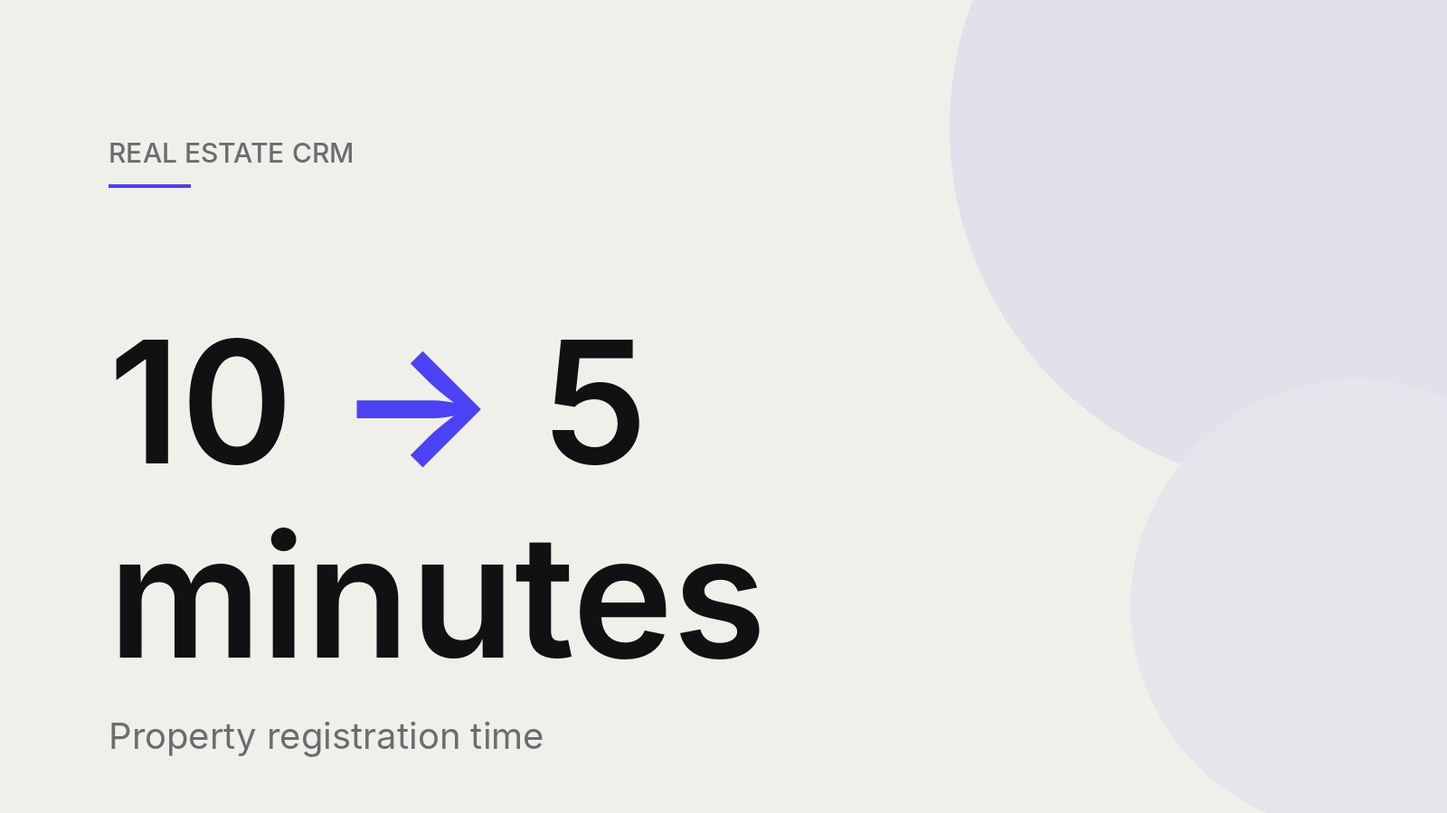
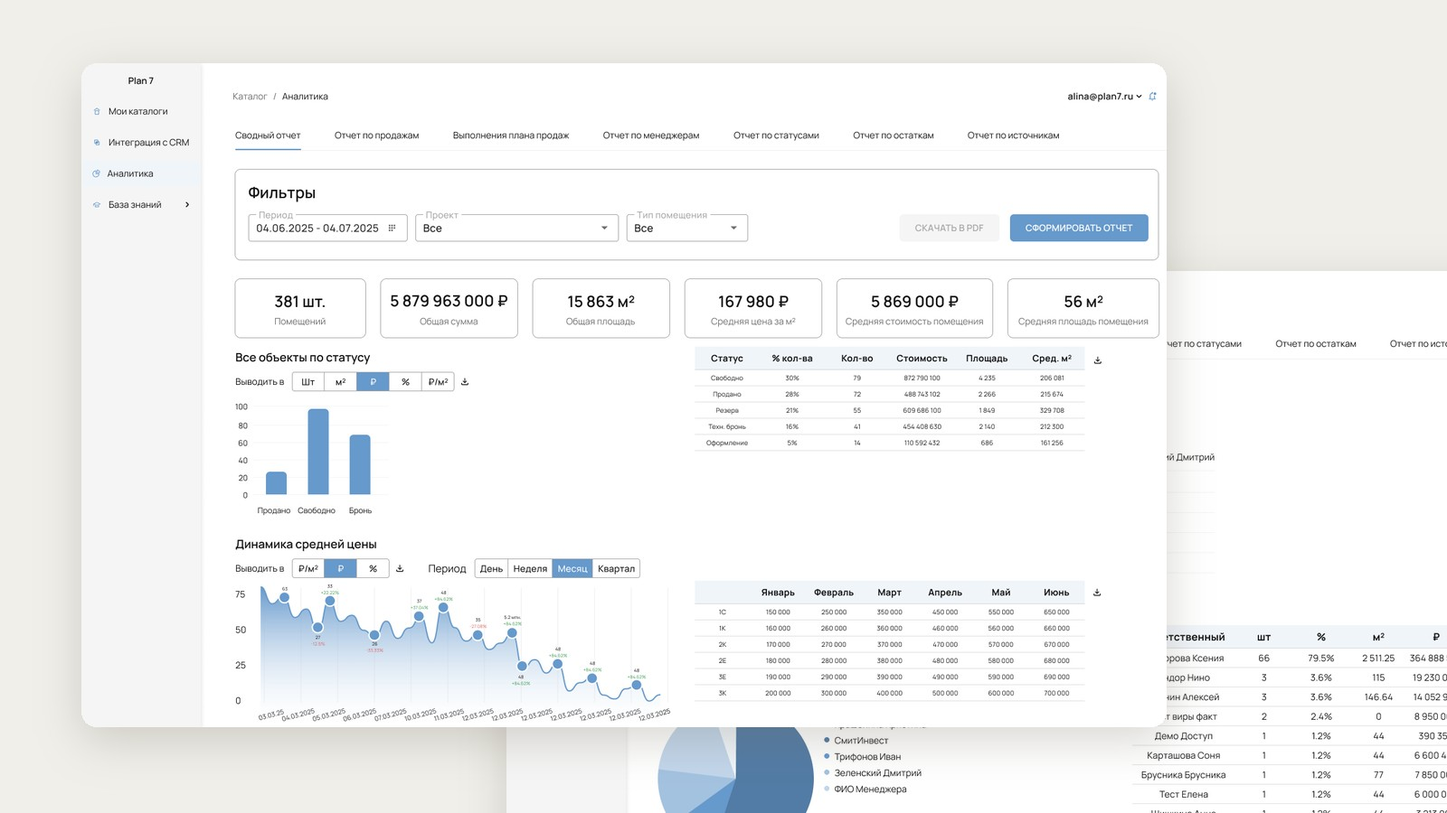
Add files via upload

diff --git a/case-mobile.html b/case-mobile.html
@@ -1,0 +1,139 @@
+<!DOCTYPE html>
+<html lang="ru">
+<head>
+<meta charset="UTF-8">
+<meta name="viewport" content="width=device-width, initial-scale=1.0">
+<title>Мобильные концепты · Портфолио</title>
+<link rel="preconnect" href="https://fonts.googleapis.com">
+<link rel="preconnect" href="https://fonts.gstatic.com" crossorigin>
+<link href="https://fonts.googleapis.com/css2?family=Inter:wght@400;500;600;700&display=swap" rel="stylesheet">
+<link rel="stylesheet" href="styles.css">
+</head>
+<body>
+
+<div class="wrap">
+  <div class="topbar">
+    <a class="sig" href="index.html" data-i18n="sig_name">Дима Мельников</a>
+    <div class="topbar-right">
+      <nav>
+        <a href="index.html#projects" data-i18n="nav_projects">Проекты</a>
+        <a href="index.html#about" data-i18n="nav_about">Про меня</a>
+        <a href="#" data-i18n="nav_resume" data-i18n-href="resume_url">Резюме ↗</a>
+      </nav>
+      <div class="lang-switch">
+        <button data-lang="ru" class="active" aria-pressed="true">RU</button>
+        <button data-lang="en" aria-pressed="false">EN</button>
+      </div>
+    </div>
+  </div>
+</div>
+
+<section class="case-hero">
+  <div class="wrap-wide">
+    <a class="back-link" href="index.html" data-i18n="back_link">← Все проекты</a>
+    <div class="case-meta"><span class="tag" data-i18n="tag1">Концепты</span><span class="tag" data-i18n="tag2">Mobile · iOS</span></div>
+    <h1 data-i18n="case_h1">Мобильные концепты: тренировки с наградами и поиск подработки</h1>
+    <p class="role-line" data-i18n="role_line"><b>Роль:</b> дизайн флоу и интерфейсов.</p>
+    <p class="role-line" data-i18n="team_line"><b>Формат:</b> два концепта мобильных приложений, без разработки.</p>
+  </div>
+</section>
+
+<section class="case-body">
+  <div class="wrap-wide">
+    <div class="cover" style="--cover: url('cover-mobile.jpg')"></div>
+
+    <h2 data-i18n="h2_memfit">Memfit: тренировки с наградами</h2>
+
+    <p data-i18n="m_intro">Memfit — концепт приложения для тренировок, где за&nbsp;активность пользователь получает memcoins. Главный экран собирает всё нужное для&nbsp;старта: награду, кнопку тренировки, статистику недели и&nbsp;обучающее видео.</p>
+
+    <p data-i18n="m_p1">Профиль подсказывает, что&nbsp;ещё заполнить: предпочтения по&nbsp;еде и&nbsp;подключение TON-кошелька. Рядом прогресс достижений в&nbsp;процентах, баланс memcoins и&nbsp;раздел с&nbsp;новостями и&nbsp;статьями.</p>
+
+    <p data-i18n="m_p2">Перед тренировкой на&nbsp;карте идёт обратный отсчёт 3, 2, 1, GO. Во&nbsp;время бега остаются крупные время, дистанция, темп и&nbsp;пульс и&nbsp;две кнопки, Resume и&nbsp;Finish.</p>
+
+    <div class="phone-grid cols-5">
+      <figure class="phone"><img src="memfit-1.jpg" alt="" loading="lazy" width="750" height="1624"><figcaption class="mockup-caption" data-i18n="mf1">Главный экран: награда, старт тренировки и статистика недели.</figcaption></figure>
+      <figure class="phone"><img src="memfit-2.jpg" alt="" loading="lazy" width="750" height="1624"><figcaption class="mockup-caption" data-i18n="mf2">Профиль: заполнение данных, достижения и баланс memcoins.</figcaption></figure>
+      <figure class="phone"><img src="memfit-3.jpg" alt="" loading="lazy" width="750" height="1624"><figcaption class="mockup-caption" data-i18n="mf3">Обратный отсчёт перед тренировкой.</figcaption></figure>
+      <figure class="phone"><img src="memfit-4.jpg" alt="" loading="lazy" width="750" height="1624"><figcaption class="mockup-caption" data-i18n="mf4">Старт тренировки.</figcaption></figure>
+      <figure class="phone"><img src="memfit-5.jpg" alt="" loading="lazy" width="750" height="1624"><figcaption class="mockup-caption" data-i18n="mf5">Показатели во время тренировки на карте.</figcaption></figure>
+    </div>
+
+    <h2 data-i18n="h2_tempi">TEMPi: регистрация в приложении для поиска подработки</h2>
+
+    <p data-i18n="intro_p">TEMPi — концепт сервиса, где исполнители находят подработку со&nbsp;сменным графиком рядом с&nbsp;домом, а&nbsp;заказчики — людей на&nbsp;смену. Здесь собран флоу регистрации исполнителя: от&nbsp;первого экрана до&nbsp;списка профессий.</p>
+
+    <p data-i18n="what_p1">Собрал флоу из&nbsp;восьми экранов и&nbsp;состояний. Вход объединяет почту и&nbsp;телефон на&nbsp;одном экране, а&nbsp;номер подтверждается звонком: пользователю достаточно ввести последние четыре цифры входящего номера.</p>
+
+    <p data-i18n="what_p2">Дальше пользователь выбирает роль и&nbsp;заполняет данные. Поля подсвечиваются по&nbsp;состоянию, а&nbsp;требования к&nbsp;паролю подписаны под полем, поэтому ошибку видно сразу, а&nbsp;не&nbsp;после отправки формы.</p>
+
+    <p data-i18n="what_p3">На&nbsp;последних шагах задаётся город и&nbsp;радиус поиска на&nbsp;карте, затем профессии, которые интересны исполнителю. На&nbsp;их основе приложение предлагает вакансии. Палитру и&nbsp;состояния компонентов собрал в&nbsp;общую систему, чтобы экраны выглядели единым продуктом.</p>
+
+    <div class="phone-grid">
+      <figure class="phone"><img src="tempi-1.jpg" alt="" loading="lazy" width="750" height="1624"><figcaption class="mockup-caption" data-i18n="ph1">Загрузочный экран.</figcaption></figure>
+      <figure class="phone"><img src="tempi-2.jpg" alt="" loading="lazy" width="750" height="1624"><figcaption class="mockup-caption" data-i18n="ph2">Вход или регистрация по почте и телефону.</figcaption></figure>
+      <figure class="phone"><img src="tempi-3.jpg" alt="" loading="lazy" width="750" height="1624"><figcaption class="mockup-caption" data-i18n="ph3">Подтверждение номера: последние четыре цифры входящего звонка.</figcaption></figure>
+      <figure class="phone"><img src="tempi-4.jpg" alt="" loading="lazy" width="750" height="1624"><figcaption class="mockup-caption" data-i18n="ph4">Выбор роли: исполнитель или заказчик.</figcaption></figure>
+      <figure class="phone"><img src="tempi-5.jpg" alt="" loading="lazy" width="750" height="1624"><figcaption class="mockup-caption" data-i18n="ph5">Ввод данных с подсветкой корректных полей.</figcaption></figure>
+      <figure class="phone"><img src="tempi-6.jpg" alt="" loading="lazy" width="750" height="1624"><figcaption class="mockup-caption" data-i18n="ph6">Регистрация успешна.</figcaption></figure>
+      <figure class="phone"><img src="tempi-7.jpg" alt="" loading="lazy" width="750" height="1624"><figcaption class="mockup-caption" data-i18n="ph7">Город и радиус поиска работы на карте.</figcaption></figure>
+      <figure class="phone"><img src="tempi-8.jpg" alt="" loading="lazy" width="750" height="1624"><figcaption class="mockup-caption" data-i18n="ph8">Выбор профессий, на основе которых предлагаются вакансии.</figcaption></figure>
+    </div>
+
+  </div>
+</section>
+
+<div class="wrap">
+  <div class="case-nav">
+    <a href="index.html" data-i18n="back_link">← Все проекты</a>
+  </div>
+</div>
+
+<footer>
+  <div class="wrap foot-meta">
+    <span>© 2026 · Дима Мельников</span>
+    <span data-i18n="footer_role">Продуктовый дизайнер</span>
+  </div>
+</footer>
+
+<script>
+window.TRANSLATIONS = {
+  __title: {"ru": "Мобильные концепты · Портфолио", "en": "Mobile concepts · Portfolio"},
+  sig_name: {ru:"Дима Мельников", en:"Dima Melnikov"},
+  nav_projects: {ru:"Проекты", en:"Projects"},
+  nav_about: {ru:"Про меня", en:"About"},
+  nav_resume: {ru:"Резюме ↗", en:"Resume ↗"},
+  resume_url: {ru:"Melnikov_Dmitriy_Resume.pdf", en:"Melnikov_Dmitriy_CV.pdf"},
+  back_link: {ru:"← Все проекты", en:"← All projects"},
+  footer_role: {ru:"Продуктовый дизайнер", en:"Product designer"},
+  tag1: {ru:"Концепты", en:"Concepts"},
+  tag2: {ru:"Mobile · iOS", en:"Mobile · iOS"},
+  case_h1: {ru:"Мобильные концепты: тренировки с наградами и поиск подработки", en:"Mobile concepts: workouts with rewards and a job search"},
+  role_line: {ru:"<b>Роль:</b> дизайн флоу и интерфейсов.", en:"<b>Role:</b> flow and interface design."},
+  team_line: {ru:"<b>Формат:</b> два концепта мобильных приложений, без разработки.", en:"<b>Format:</b> two mobile app concepts, no development."},
+  h2_memfit: {ru:"Memfit: тренировки с наградами", en:"Memfit: workouts with rewards"},
+  m_intro: {ru:"Memfit — концепт приложения для тренировок, где за&nbsp;активность пользователь получает memcoins. Главный экран собирает всё нужное для&nbsp;старта: награду, кнопку тренировки, статистику недели и&nbsp;обучающее видео.", en:"Memfit is a concept for a workout app where users earn memcoins for activity. The home screen puts everything needed to start in one place: the reward, a training button, weekly stats and an educational video."},
+  m_p1: {ru:"Профиль подсказывает, что&nbsp;ещё заполнить: предпочтения по&nbsp;еде и&nbsp;подключение TON-кошелька. Рядом прогресс достижений в&nbsp;процентах, баланс memcoins и&nbsp;раздел с&nbsp;новостями и&nbsp;статьями.", en:"The profile suggests what is left to fill in: food preferences and connecting a TON wallet. Next to it are achievement progress in percent, the memcoin balance, and a section with news and articles."},
+  m_p2: {ru:"Перед тренировкой на&nbsp;карте идёт обратный отсчёт 3, 2, 1, GO. Во&nbsp;время бега остаются крупные время, дистанция, темп и&nbsp;пульс и&nbsp;две кнопки, Resume и&nbsp;Finish.", en:"Before a workout, a 3, 2, 1, GO countdown runs over the map. During a run, large time, distance, pace and heart rate figures stay on screen with two buttons, Resume and Finish."},
+  mf1: {ru:"Главный экран: награда, старт тренировки и статистика недели.", en:"Home: reward, workout start and weekly stats."},
+  mf2: {ru:"Профиль: заполнение данных, достижения и баланс memcoins.", en:"Profile: completing details, achievements and the memcoin balance."},
+  mf3: {ru:"Обратный отсчёт перед тренировкой.", en:"Countdown before a workout."},
+  mf4: {ru:"Старт тренировки.", en:"Workout start."},
+  mf5: {ru:"Показатели во время тренировки на карте.", en:"Live workout stats over the map."},
+  h2_tempi: {ru:"TEMPi: регистрация в приложении для поиска подработки", en:"TEMPi: sign-up in a job-search app"},
+  intro_p: {ru:"TEMPi — концепт сервиса, где исполнители находят подработку со&nbsp;сменным графиком рядом с&nbsp;домом, а&nbsp;заказчики — людей на&nbsp;смену. Здесь собран флоу регистрации исполнителя: от&nbsp;первого экрана до&nbsp;списка профессий.", en:"TEMPi is a concept for a service where workers find shift-based part-time jobs close to home and employers find people for a shift. This part covers the worker sign-up flow, from the first screen to the list of professions."},
+  what_p1: {ru:"Собрал флоу из&nbsp;восьми экранов и&nbsp;состояний. Вход объединяет почту и&nbsp;телефон на&nbsp;одном экране, а&nbsp;номер подтверждается звонком: пользователю достаточно ввести последние четыре цифры входящего номера.", en:"Built a flow of eight screens and states. Sign-in combines email and phone on one screen, and the number is confirmed by a call: the user only enters the last four digits of the incoming number."},
+  what_p2: {ru:"Дальше пользователь выбирает роль и&nbsp;заполняет данные. Поля подсвечиваются по&nbsp;состоянию, а&nbsp;требования к&nbsp;паролю подписаны под полем, поэтому ошибку видно сразу, а&nbsp;не&nbsp;после отправки формы.", en:"Next, the user picks a role and fills in their details. Fields are highlighted by state and the password requirements are written under the field, so a mistake is visible immediately rather than after submitting the form."},
+  what_p3: {ru:"На&nbsp;последних шагах задаётся город и&nbsp;радиус поиска на&nbsp;карте, затем профессии, которые интересны исполнителю. На&nbsp;их основе приложение предлагает вакансии. Палитру и&nbsp;состояния компонентов собрал в&nbsp;общую систему, чтобы экраны выглядели единым продуктом.", en:"The last steps set the city and the search radius on a map, then the professions the worker is interested in. The app suggests vacancies based on them. I put the palette and component states into one system so the screens read as a single product."},
+  ph1: {ru:"Загрузочный экран.", en:"Loading screen."},
+  ph2: {ru:"Вход или регистрация по почте и телефону.", en:"Sign-in or sign-up with email and phone."},
+  ph3: {ru:"Подтверждение номера: последние четыре цифры входящего звонка.", en:"Phone confirmation: the last four digits of an incoming call."},
+  ph4: {ru:"Выбор роли: исполнитель или заказчик.", en:"Role choice: worker or employer."},
+  ph5: {ru:"Ввод данных с подсветкой корректных полей.", en:"Entering details with valid fields highlighted."},
+  ph6: {ru:"Регистрация успешна.", en:"Sign-up complete."},
+  ph7: {ru:"Город и радиус поиска работы на карте.", en:"City and job search radius on a map."},
+  ph8: {ru:"Выбор профессий, на основе которых предлагаются вакансии.", en:"Choosing professions that vacancies are matched to."}
+};
+</script>
+<script src="i18n.js"></script>
+</body>
+</html>

diff --git a/case-realty.html b/case-realty.html
@@ -48,6 +48,22 @@
     <h2 data-i18n="h2_what">Что я сделал</h2>
     <p data-i18n="what_p">Изучил старый интерфейс и&nbsp;вместе с&nbsp;командой разобрал, как&nbsp;менеджеры на&nbsp;самом деле работают: какие операции повторяются каждый день и&nbsp;где теряется время. На&nbsp;основе этих паттернов построил новый дизайн: перекомпоновал ключевые экраны вокруг частых сценариев и&nbsp;повысил видимость данных, чтобы меньше кликать и&nbsp;искать.</p>
 
+    <h2 data-i18n="h2_screens">Какие получились экраны</h2>
+    <div class="mockup-feed">
+      <div class="mockup-item">
+        <div class="cover" style="--cover:url('realty-1.jpg')"></div>
+        <p class="mockup-caption" data-i18n="shot1_caption">Сводный отчёт: статусы объектов, динамика цены и&nbsp;таблицы по&nbsp;комнатности.</p>
+      </div>
+      <div class="mockup-item">
+        <div class="cover" style="--cover:url('realty-2.jpg')"></div>
+        <p class="mockup-caption" data-i18n="shot2_caption">Отчёт по менеджерам: брони за&nbsp;период и&nbsp;текущие брони.</p>
+      </div>
+      <div class="mockup-item">
+        <div class="cover" style="--cover:url('realty-3.jpg')"></div>
+        <p class="mockup-caption" data-i18n="shot3_caption">Отчёт по изменению цены: повышения и&nbsp;понижения по&nbsp;дням.</p>
+      </div>
+    </div>
+
     <h2 data-i18n="h2_result">Результат</h2>
     <p data-i18n="result_p">Регистрация нового объекта ускорилась вдвое, замер сделал уже после внедрения. Улучшенная видимость данных сократила и&nbsp;время на&nbsp;подготовку отчётов.</p>
     <div class="result">
@@ -94,6 +110,10 @@ window.TRANSLATIONS = {
   task_p: {ru:"Повысить удобство, визуальную целостность и&nbsp;эффективность ежедневной работы менеджеров в&nbsp;CRM. Времени на&nbsp;пользовательские тесты не&nbsp;было, поэтому опёрся на&nbsp;разбор текущей системы и&nbsp;знание команды о&nbsp;реальных паттернах работы.", en:"Improve usability, visual consistency, and the day-to-day efficiency of managers working in the CRM. There was no time for user testing, so I relied on analyzing the existing system and the team's knowledge of real usage patterns."},
   h2_what: {ru:"Что я сделал", en:"What I did"},
   what_p: {ru:"Изучил старый интерфейс и&nbsp;вместе с&nbsp;командой разобрал, как&nbsp;менеджеры на&nbsp;самом деле работают: какие операции повторяются каждый день и&nbsp;где теряется время. На&nbsp;основе этих паттернов построил новый дизайн: перекомпоновал ключевые экраны вокруг частых сценариев и&nbsp;повысил видимость данных, чтобы меньше кликать и&nbsp;искать.", en:"Studied the old interface and worked with the team to understand how managers actually work day to day: which actions repeat constantly and where time gets lost. Built the new design around those patterns, restructuring key screens around frequent scenarios and surfacing more data upfront so there's less clicking and searching."},
+  h2_screens: {ru:"Какие получились экраны", en:"How the screens turned out"},
+  shot1_caption: {ru:"Сводный отчёт: статусы объектов, динамика цены и&nbsp;таблицы по&nbsp;комнатности.", en:"Summary report: property statuses, price dynamics, and tables by room count."},
+  shot2_caption: {ru:"Отчёт по менеджерам: брони за&nbsp;период и&nbsp;текущие брони.", en:"Managers report: bookings for the period and current bookings."},
+  shot3_caption: {ru:"Отчёт по изменению цены: повышения и&nbsp;понижения по&nbsp;дням.", en:"Price change report: increases and decreases by day."},
   h2_result: {ru:"Результат", en:"Result"},
   result_p: {ru:"Регистрация нового объекта ускорилась вдвое, замер сделал уже после внедрения. Улучшенная видимость данных сократила и&nbsp;время на&nbsp;подготовку отчётов.", en:"Registering a new property got twice as fast, measured after rollout. Better data visibility also cut down report preparation time."},
   kpi1_b: {ru:"10 → 5", en:"10 → 5"},

diff --git a/index.html b/index.html
@@ -111,19 +111,27 @@
   </div>
 </section>
 
-<!-- ================= КОНЦЕПТЫ (временно отключено, пока нет картинок)
+<!-- ================= КОНЦЕПТЫ ================= -->
 <section id="concepts">
   <div class="wrap">
     <div class="sec-head"><h2 data-i18n="sec_concepts">Концепты</h2></div>
-    <p class="concepts-lead" data-i18n="concepts_lead">Идеи и эксперименты вне рабочих проектов.</p>
-    <div class="concept-grid">
-      <a class="concept" href="concept-1.jpg" target="_blank" rel="noopener"><img src="concept-1.jpg" alt="" loading="lazy"></a>
-      <a class="concept" href="concept-2.jpg" target="_blank" rel="noopener"><img src="concept-2.jpg" alt="" loading="lazy"></a>
-      <a class="concept" href="concept-3.jpg" target="_blank" rel="noopener"><img src="concept-3.jpg" alt="" loading="lazy"></a>
+    <div class="cards">
+      <a class="case-card" href="case-mobile.html">
+        <div class="cover" style="--cover: url('cover-mobile.jpg')"></div>
+        <div class="case-card-body">
+          <div class="case-meta"><span class="tag" data-i18n="c5_tag1">Концепты</span><span class="tag" data-i18n="c5_tag2">Mobile · iOS</span></div>
+          <h3 data-i18n="c5_title">Мобильные концепты: тренировки с наградами и поиск подработки</h3>
+          <p class="blurb" data-i18n="c5_blurb">Memfit — приложение для тренировок с memcoins и TEMPi — регистрация исполнителя в сервисе подработки.</p>
+          <div class="result-inline">
+            <span class="res" data-i18n="c5_res1">2 концепта</span>
+            <span class="res" data-i18n="c5_res2">13 экранов</span>
+          </div>
+          <span class="case-link"><span data-i18n="case_link">Смотреть кейс</span> <span class="arrow">→</span></span>
+        </div>
+      </a>
     </div>
   </div>
 </section>
-================= КОНЦЕПТЫ ================= -->
 
 <!-- ================= ЧТО ЕЩЁ УМЕЮ ================= -->
 <!-- ================= ПРО МЕНЯ ================= -->
@@ -204,8 +212,13 @@ window.TRANSLATIONS = {
   c4_blurb: {ru:"Перенёс desktop-приложение в веб и выбрал дизайн-систему вместе с разработкой.", en:"Moved a desktop application to the web and chose the design system together with engineering."},
   c4_res1: {ru:"40+ страниц компонентов", en:"40+ pages of components"},
   c4_res2: {ru:"MVP за 5 недель", en:"MVP in 5 weeks"},
+  c5_tag1: {ru:"Концепты", en:"Concepts"},
+  c5_tag2: {ru:"Mobile · iOS", en:"Mobile · iOS"},
+  c5_title: {ru:"Мобильные концепты: тренировки с наградами и поиск подработки", en:"Mobile concepts: workouts with rewards and a job search"},
+  c5_blurb: {ru:"Memfit — приложение для тренировок с memcoins и TEMPi — регистрация исполнителя в сервисе подработки.", en:"Memfit, a workout app with memcoins, and TEMPi, worker sign-up in a part-time job service."},
+  c5_res1: {ru:"2 концепта", en:"2 concepts"},
+  c5_res2: {ru:"13 экранов", en:"13 screens"},
   sec_concepts: {ru:"Концепты", en:"Concepts"},
-  concepts_lead: {ru:"Идеи и эксперименты вне рабочих проектов.", en:"Ideas and experiments outside of client work."},
   case_link: {ru:"Смотреть кейс", en:"View case"},
   sec_about: {ru:"Про меня", en:"About me"},
   about_p1: {ru:'Я <strong>продуктовый дизайнер</strong>, больше 3 лет работаю с B2B- и B2G-продуктами. Проектирую как веб-интерфейсы, так и мобильные приложения — iOS и Android. Люблю задачи со сложной логикой и высокой ценой ошибки: CRM, внутренние системы, сервисы для профессионалов.', en:"I'm a <strong>product designer</strong> with more than 3 years working on B2B and B2G products. I design both web interfaces and mobile apps, iOS and Android. I love problems with complex logic and a high cost of error: CRM systems, internal tools, services built for professionals."},

diff --git a/styles.css b/styles.css
@@ -214,3 +214,11 @@ footer{padding:48px 0 64px}
 .concept{display:block;border:1px solid var(--line);border-radius:20px;overflow:hidden;background:var(--paper);transition:border-color .2s,transform .2s}
 .concept:hover{border-color:var(--accent);transform:translateY(-2px)}
 .concept img{display:block;width:100%;height:auto}
+
+/* ---------- мобильные экраны ---------- */
+.phone-grid{display:grid;grid-template-columns:repeat(4,1fr);gap:28px 24px;margin:8px 0 40px}
+.phone{margin:0}
+.phone img{display:block;width:100%;height:auto;border-radius:22px;border:1px solid var(--line)}
+.phone figcaption{margin-top:12px;font-size:14px;line-height:1.4}
+.phone-grid.cols-5{grid-template-columns:repeat(5,1fr);gap:28px 18px}
+@media(max-width:900px){.phone-grid,.phone-grid.cols-5{grid-template-columns:repeat(2,1fr)}}
